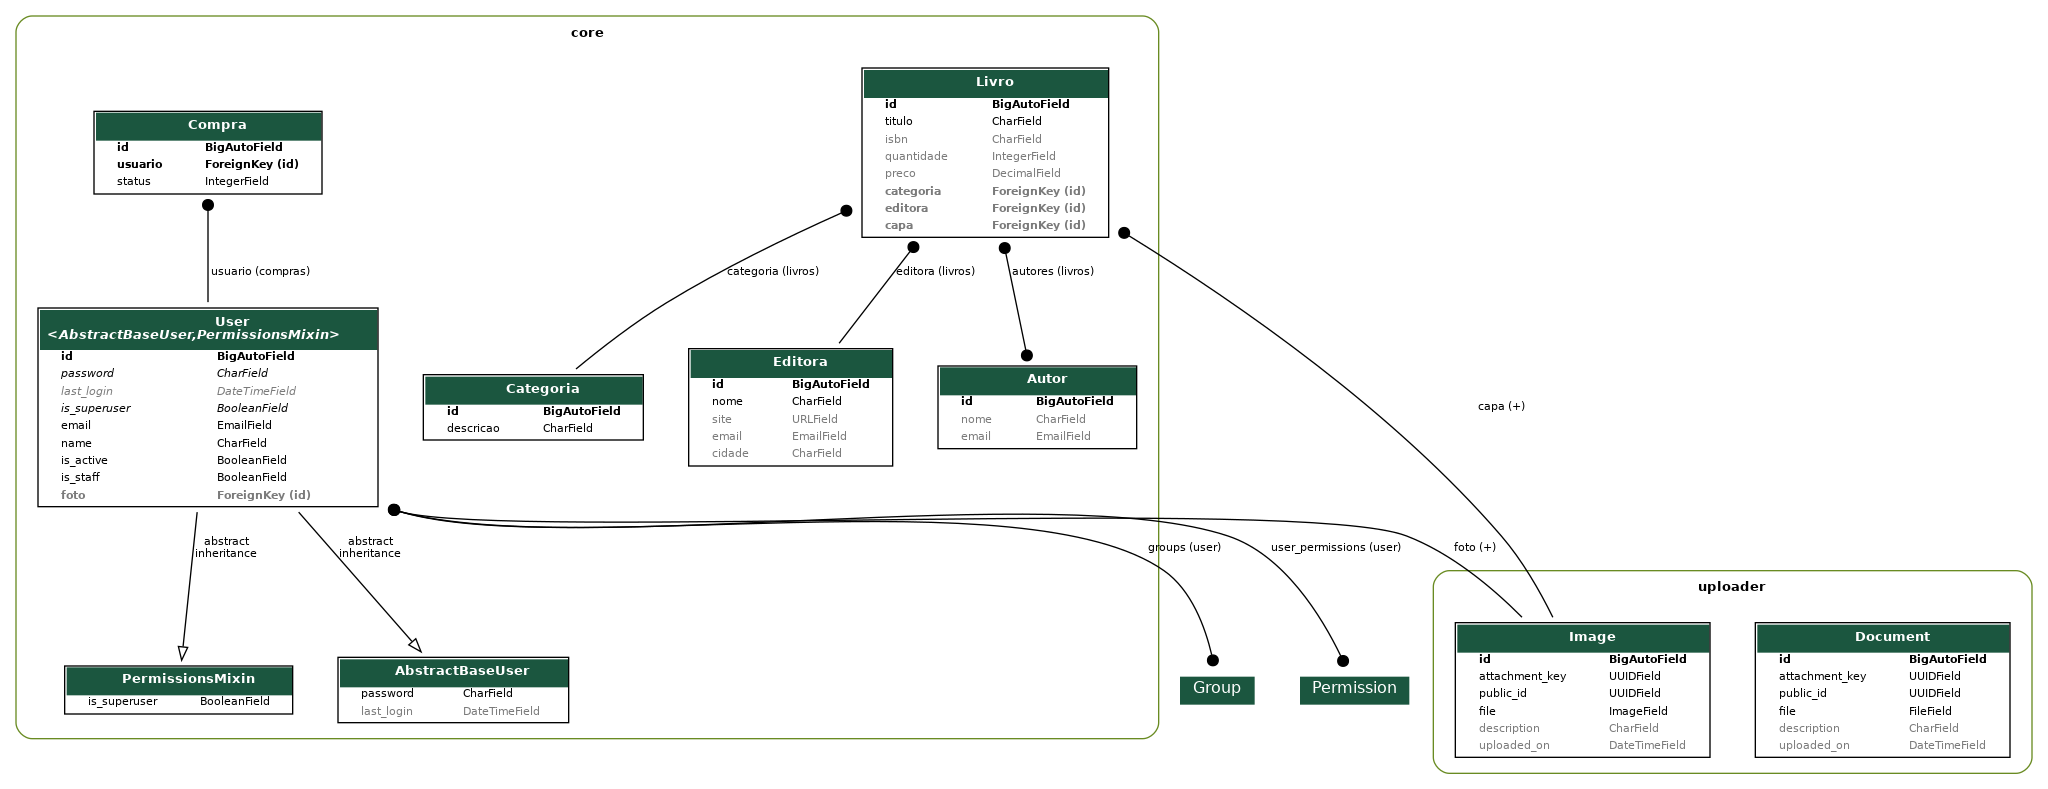
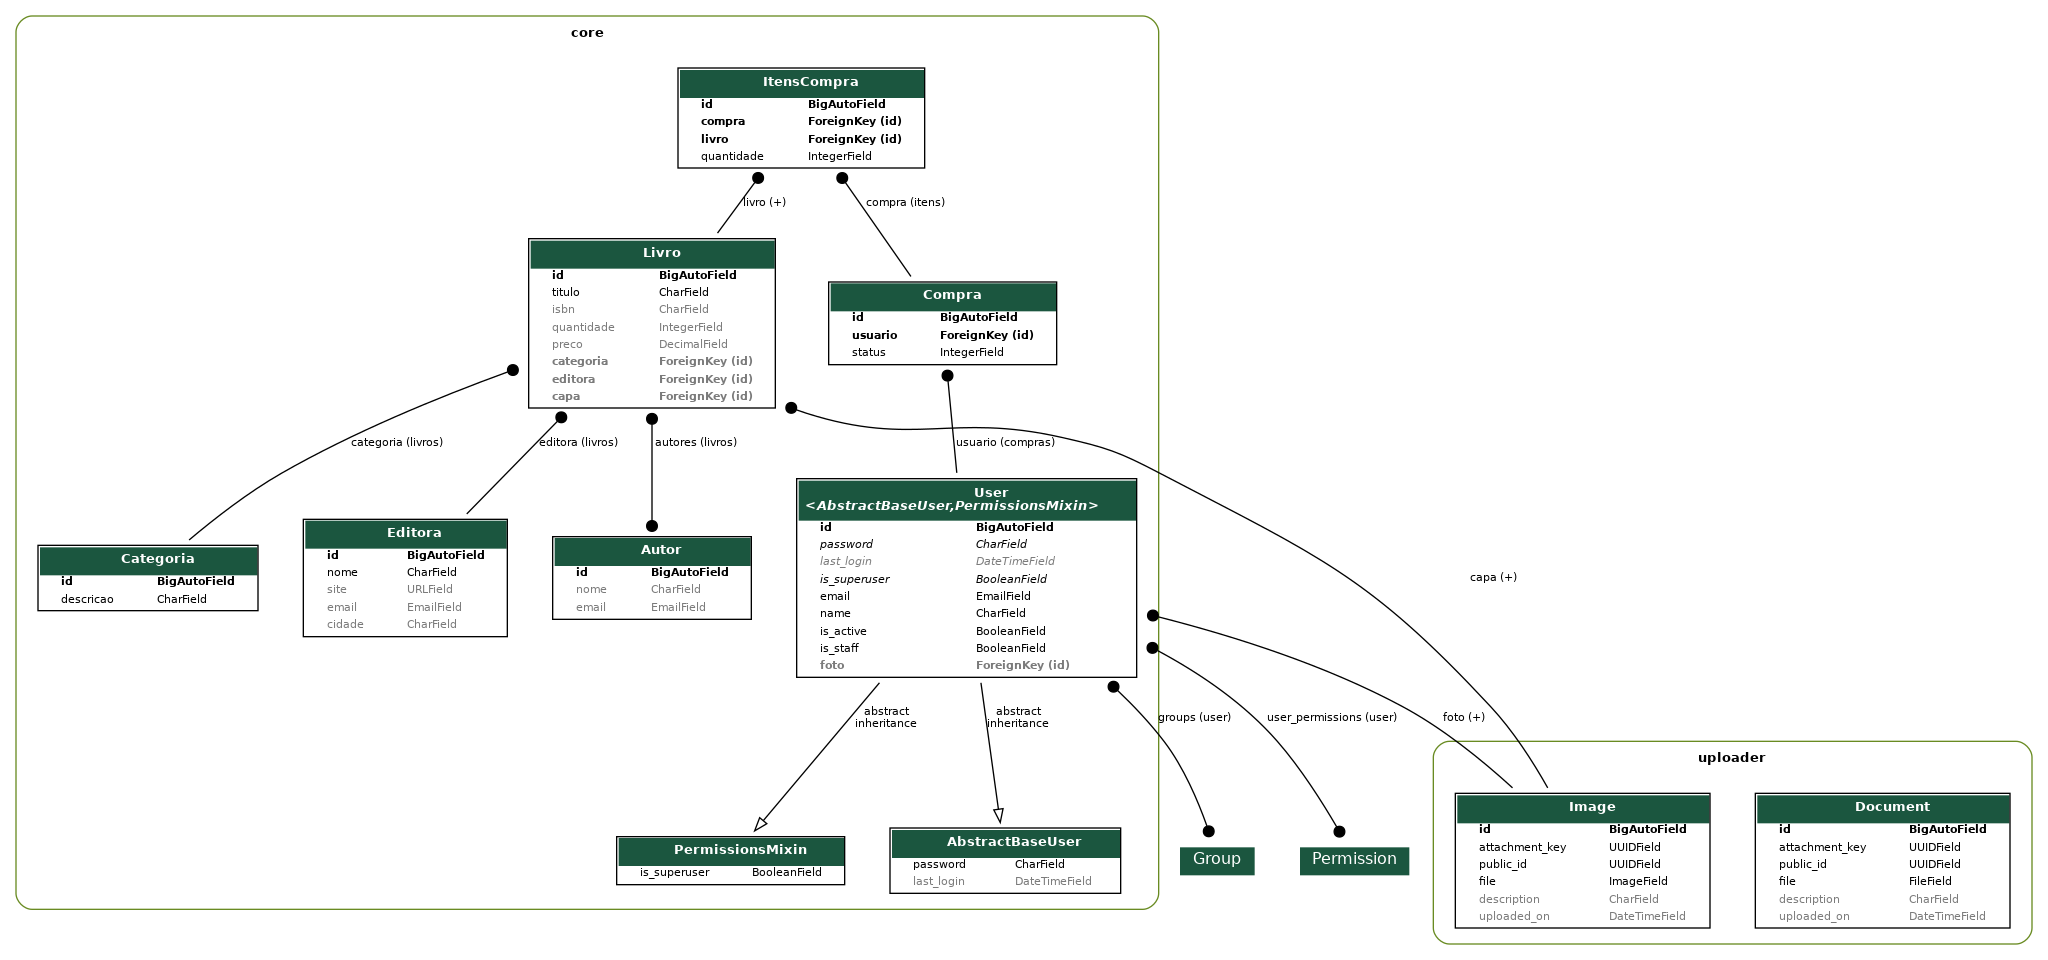
Criação dos itens da compra

diff --git a/core/migrations/0018_itenscompra.py b/core/migrations/0018_itenscompra.py
@@ -1,0 +1,31 @@
+# Generated by Django 5.0.2 on 2024-09-10 11:56
+
+import django.db.models.deletion
+from django.db import migrations, models
+
+
+class Migration(migrations.Migration):
+
+    dependencies = [
+        ("core", "0017_compra"),
+    ]
+
+    operations = [
+        migrations.CreateModel(
+            name="ItensCompra",
+            fields=[
+                ("id", models.BigAutoField(auto_created=True, primary_key=True, serialize=False, verbose_name="ID")),
+                ("quantidade", models.IntegerField(default=1)),
+                (
+                    "compra",
+                    models.ForeignKey(
+                        on_delete=django.db.models.deletion.CASCADE, related_name="itens", to="core.compra"
+                    ),
+                ),
+                (
+                    "livro",
+                    models.ForeignKey(on_delete=django.db.models.deletion.PROTECT, related_name="+", to="core.livro"),
+                ),
+            ],
+        ),
+    ]

diff --git a/core/models/compra.py b/core/models/compra.py
@@ -1,6 +1,8 @@
 from django.db import models
 
+from .livro import Livro
 from .user import User
+
 
 class Compra(models.Model):
     class StatusCompra(models.IntegerChoices):
@@ -10,7 +12,13 @@ class Compra(models.Model):
         ENTREGUE = 4, "Entregue"
 
     usuario = models.ForeignKey(User, on_delete=models.PROTECT, related_name="compras")
-    status = models.IntegerField(choices=StatusCompra.choices,  default=StatusCompra.CARRINHO)
+    status = models.IntegerField(choices=StatusCompra.choices, default=StatusCompra.CARRINHO)
 
     def __str__(self):
         return f"({self.id}) {self.usuario} {self.status}"
+
+
+class ItensCompra(models.Model):
+    compra = models.ForeignKey(Compra, on_delete=models.CASCADE, related_name="itens")
+    livro = models.ForeignKey(Livro, on_delete=models.PROTECT, related_name="+")
+    quantidade = models.IntegerField(default=1)

diff --git a/core/admin.py b/core/admin.py
@@ -6,7 +6,7 @@ from django.contrib import admin
 from django.contrib.auth.admin import UserAdmin as BaseUserAdmin
 from django.utils.translation import gettext_lazy as _
 
-from core.models import Autor, Categoria, Editora, Livro, User, Compra
+from core.models import Autor, Categoria, Editora, Livro, User, Compra, ItensCompra
 
 
 @admin.register(User)
@@ -85,3 +85,4 @@ class LivroAdmin(admin.ModelAdmin):
     list_per_page = 25
 
 admin.site.register(Compra)
+admin.site.register(ItensCompra)

diff --git a/core/models/__init__.py b/core/models/__init__.py
@@ -3,6 +3,6 @@ from .categoria import Categoria
 from .editora import Editora
 from .autor import Autor
 from .livro import Livro
-from .compra import Compra
+from .compra import Compra, ItensCompra
 
 # após esse passo criar migração
